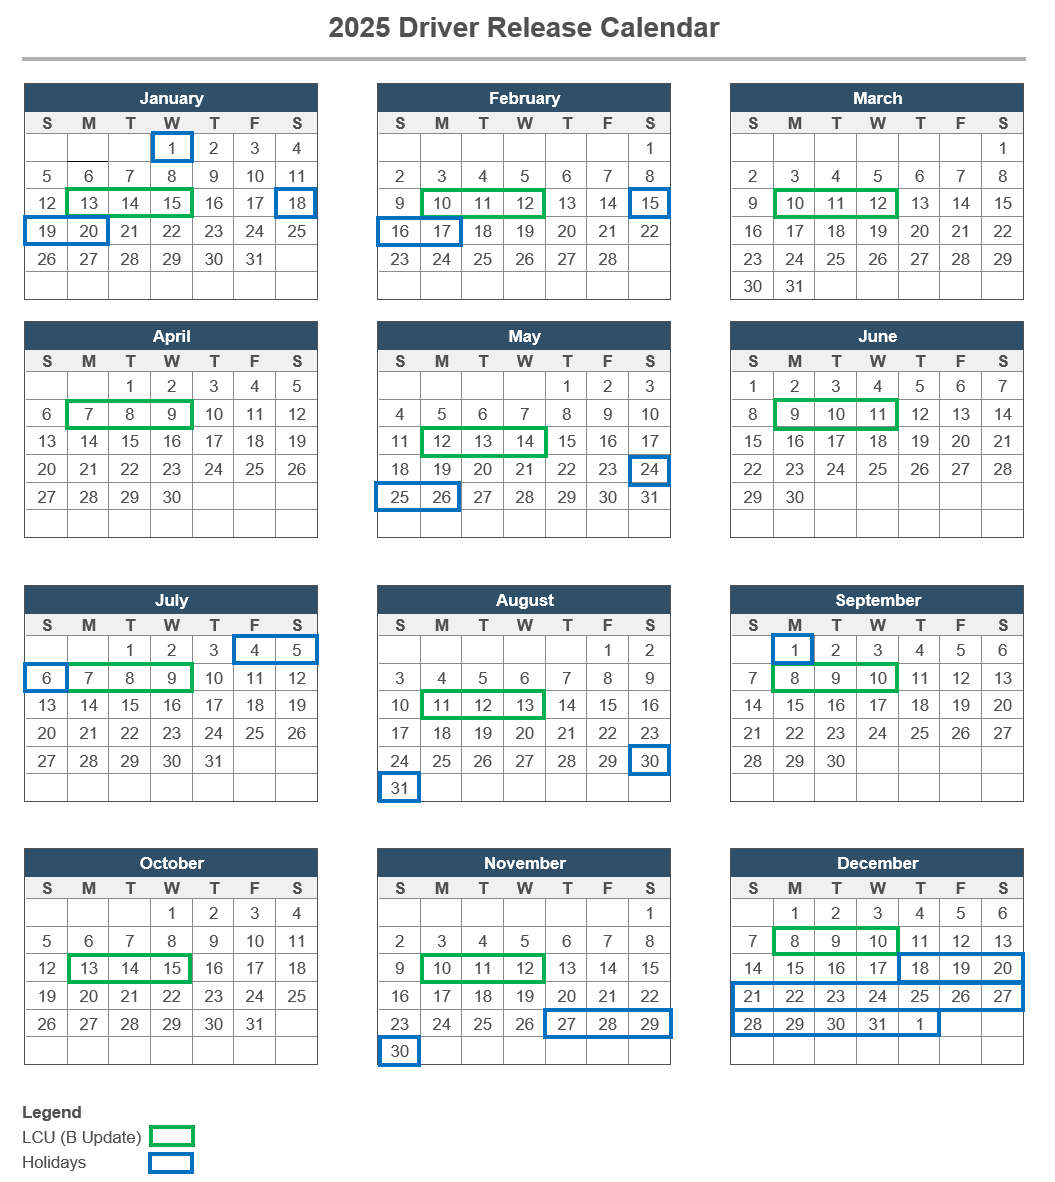
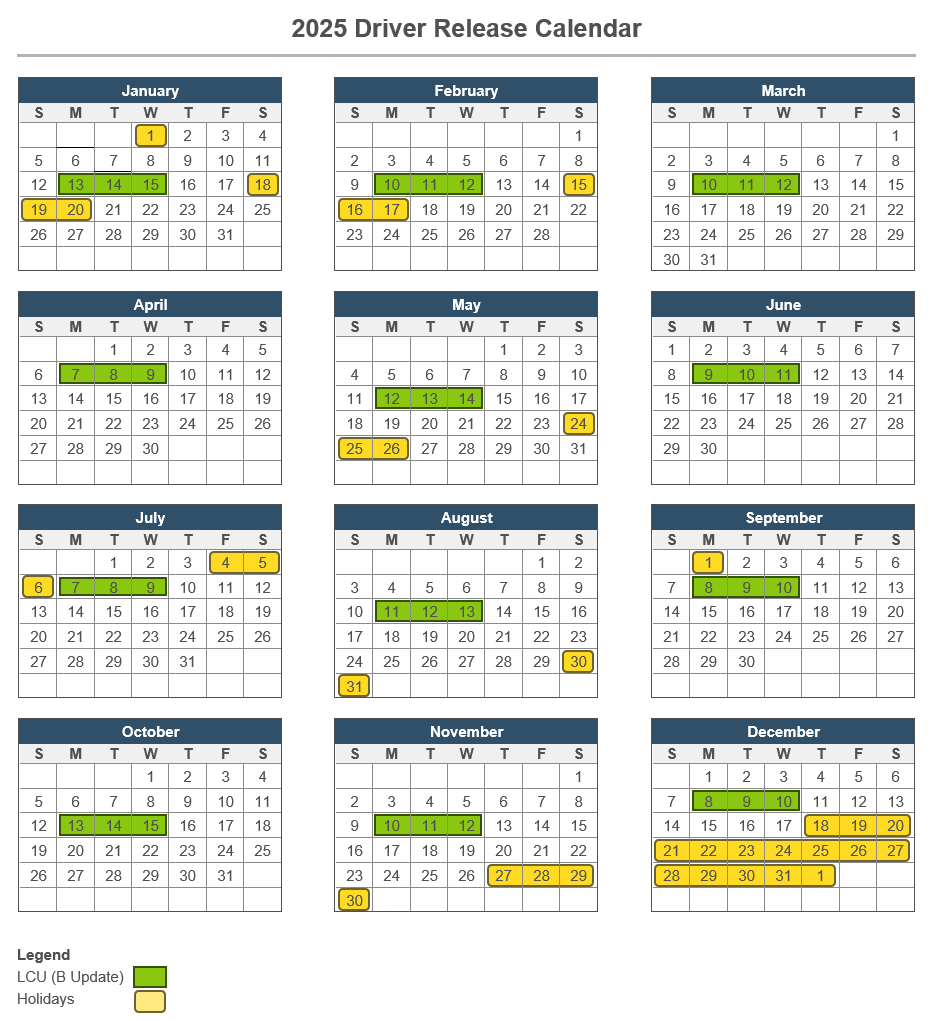
Edits and updated calendar graphics for accessibility.

diff --git a/windows-driver-docs-pr/dashboard/driver-release-cadence.md b/windows-driver-docs-pr/dashboard/driver-release-cadence.md
@@ -1,15 +1,15 @@
 ---
 title: Driver Ship Room Release Cadence Windows
-description: This page provides information on the operation schedule for driver ship room. In order to provide the best experience for Windows users, there are certain times where aspects of publication operations are suspended.
-ms.date: 11/24/2025
+description: This article provides information about the operation schedule for Windows driver ship room. In order to provide the best experience for Windows users, there are certain times where aspects of publication operations are suspended.
+ms.date: 11/25/2025
 ms.topic: release-notes
 ---
 
-# Driver Ship Room Release Cadence Windows
+# Driver ship room release cadence windows
 
-Last Updated: November 24, 2025
+Last Updated: November 25, 2025
 
-This article provides information on the operation schedule for Windows driver ship room. In order to provide the best experience for Windows users, there are certain times where aspects of publication operations are suspended.
+This article provides information about the operation schedule for Windows driver ship room. In order to provide the best experience for Windows users, there are certain times where aspects of publication operations are suspended.
 
 We have a shared goal of keeping devices up to date while providing users a high quality experience. When a driver update is released alongside OS updates, it results in a poor experience and impacts end-users.
 
@@ -22,9 +22,9 @@ Windows as a Service has a well-established OS update release cadence.
 There are changes for releasing drivers marked as needing *Microsoft approval*. These changes ensure we release quality drivers, reduce the risk of releasing drivers at the same time as OS changes, and provide ecosystem partners a predictable driver release cadence. The drivers affected by these changes include:
 
 - Flighted drivers: Drivers (shipping label) marked as **Automatic** = Critical Update (CU) or Dynamic Update (DU) or both
-- Optional driver classes which always go through ship room approval
+- Optional driver classes, which always go through ship room approval
 
-**Predictable driver release windows**: During OS update release time frames, we defer releasing drivers needing *Microsoft approval* to WU and will resume automatic publishing after the deferral window.
+**Predictable driver release windows**: During OS update release time frames, we defer releasing drivers needing *Microsoft approval* to Windows Update and will resume automatic publishing after the deferral window.
 
 1. **Monthly Quality Update *B* release**: Drivers needing *Microsoft approval* aren't released one day before and for one day after monthly security *B* release.
 
@@ -32,13 +32,13 @@ There are changes for releasing drivers marked as needing *Microsoft approval*. 
     |--|--|--|
     | One day before | *B* monthly security release day | One day after |
 
-1. **Feature update offer via Windows Update**: Driver needing *Microsoft approval* aren't released two days before, and for two days after the start of a feature OS update rollout.
+1. **Feature update offer via Windows Update**: Drivers needing *Microsoft approval* aren't released two days before, and for two days after the start of a feature OS update rollout.
 
     | Before | Day Of | After |
     |--|--|--|
     | Two days before | Feature OS Rollout | Two days after |
 
-    If there are known issues for feature update and driver compatibility, you can request a *feature update offer block mitigation* while a compatible driver update is being validated and posted to WU.
+    If there are known issues for feature update and driver compatibility, you can request a *feature update offer block mitigation* while a compatible driver update is being validated and posted to Windows Update.
 
 1. **Certain US holidays**: Drivers needing *Microsoft approval* aren't released on certain US Holidays and long weekends
 
@@ -56,7 +56,7 @@ There are changes for releasing drivers marked as needing *Microsoft approval*. 
     | Christmas Day | Friday, December 25 | Thursday, December 25 |
     | Day after Christmas | - | Friday, December 26 |
 
-2. **US Winter Holiday time frame release moratorium**: During the US winter holiday season, the driver ship room isn't releasing *any* drivers. For calendar year 2025, the time frame is December 18, 2025 through January 1, 2026. For calendar year 2026, the time frame is December 18, 2026 through January 1, 2027.
+1. **US Winter Holiday time frame release moratorium**: During the US winter holiday season, the driver ship room isn't releasing *any* drivers. For calendar year 2025, the time frame is December 18, 2025 through January 1, 2026. For calendar year 2026, the time frame is December 18, 2026 through January 1, 2027.
 
     See the calendars in the [Appendix](#appendix) for more dates.
 
@@ -67,9 +67,9 @@ There are changes for releasing drivers marked as needing *Microsoft approval*. 
 
 ### FAQ
 
-1. What does this deferral mean for newly submitted drivers or drivers currently In-Flight?
+1. What does this deferral mean for newly submitted drivers or drivers currently in-flight?
 
-    This deferral is for the release of a driver needing *Microsoft approval* (marked as Automatic or Dynamic Update) to WU. Newly submitted drivers, and drivers currently in-flight, proceed as they normally do.
+    This deferral is for the release of a driver needing *Microsoft approval* (marked as Automatic or Dynamic Update) to Windows Update. Newly submitted drivers, and drivers currently in-flight, proceed as they normally do.
 
 1. What is the latest deferral calendar?
 
